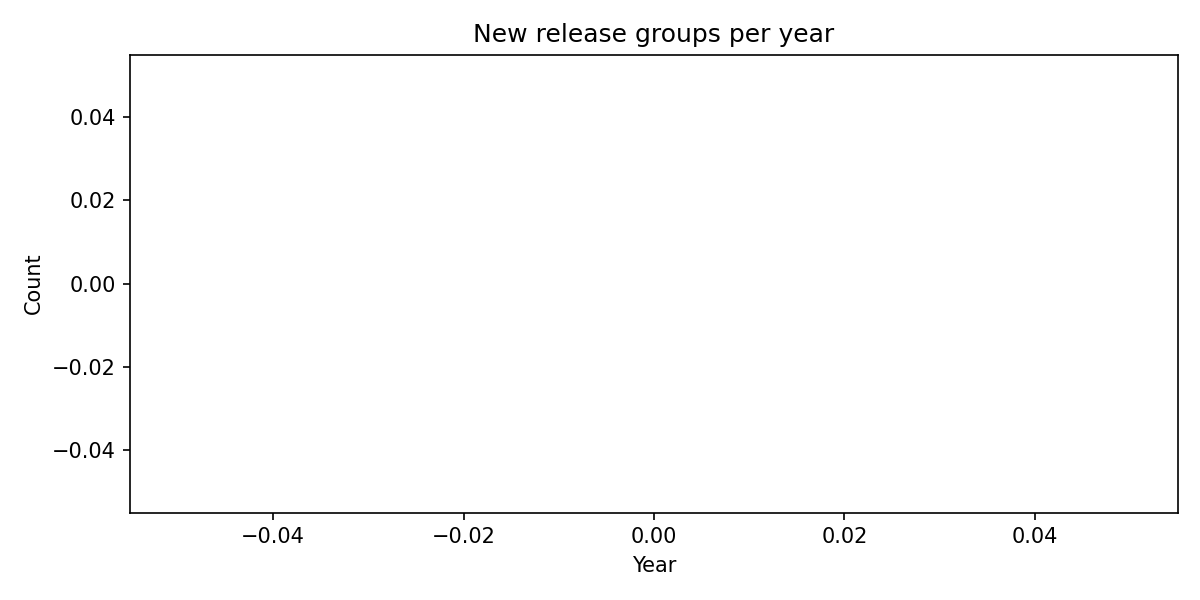
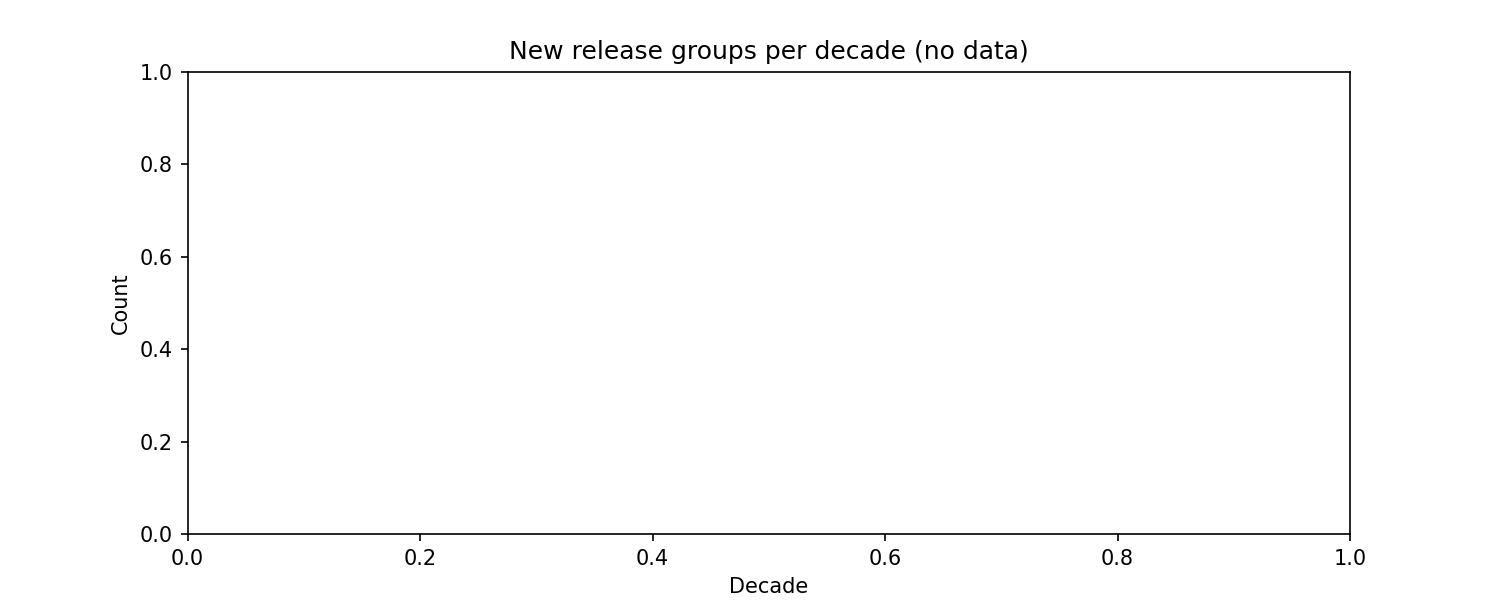
Robust hero plot with decade aggregation and fallbacks

diff --git a/app/figures/export.py b/app/figures/export.py
@@ -6,15 +6,52 @@ M = Path("data/marts")
 D = Path("docs/figures")
 D.mkdir(parents=True, exist_ok=True)
 
-# 1) Hero: release groups per year  → docs/figures/rg_per_year.png
-rg_by_year = pd.read_csv(M / "release_groups_by_year.csv").sort_values("year")
-plt.figure(figsize=(8, 4))
-plt.plot(rg_by_year["year"], rg_by_year["count"])
-plt.title("New release groups per year")
-plt.xlabel("Year")
-plt.ylabel("Count")
-plt.tight_layout()
-plt.savefig(D / "rg_per_year.png", dpi=150)
+# 1) Hero: release groups per decade with fallbacks → docs/figures/rg_per_year.png
+def _rg_by_year_fallback() -> pd.DataFrame:
+    p = M / "release_groups_by_year.csv"
+    if p.exists():
+        df = pd.read_csv(p)
+        if len(df):
+            return df.rename(columns=str.lower)[["year", "count"]]
+    # fallback from release_groups
+    p = M / "release_groups.csv"
+    if p.exists():
+        df = pd.read_csv(p).rename(columns=str.lower)
+        if "first_release_year" in df and df["first_release_year"].notna().any():
+            out = (df.dropna(subset=["first_release_year"])
+                     .assign(year=lambda d: d["first_release_year"].astype(int))
+                     .groupby("year").size().reset_index(name="count"))
+            if len(out):
+                return out
+    # last resort from artist_discography
+    p = M / "artist_discography.csv"
+    if p.exists():
+        df = pd.read_csv(p)
+        if "first_release_year" in df and df["first_release_year"].notna().any():
+            out = (df.dropna(subset=["first_release_year"])
+                     .assign(year=lambda d: d["first_release_year"].astype(int))
+                     .groupby("year").size().reset_index(name="count"))
+            return out
+    return pd.DataFrame(columns=["year", "count"])
+
+rg_year = _rg_by_year_fallback()
+# aggregate to decades: 1960s, 1970s, …
+if len(rg_year):
+    rg_dec = (rg_year.assign(decade=lambda d: (d["year"] // 10) * 10)
+                      .groupby("decade", as_index=False)["count"].sum()
+                      .sort_values("decade"))
+    labels = [f"{d}s" for d in rg_dec["decade"]]
+    plt.figure(figsize=(10, 4))
+    plt.bar(labels, rg_dec["count"])
+    plt.title("New release groups per decade")
+    plt.xlabel("Decade")
+    plt.ylabel("Count")
+    plt.tight_layout()
+else:
+    plt.figure(figsize=(10, 4))
+    plt.title("New release groups per decade (no data)")
+    plt.xlabel("Decade"); plt.ylabel("Count")
+plt.savefig(D / "rg_per_year.png", dpi=150)  # keep filename expected by tests
 plt.close()
 
 # 2) Top-5 genres by decade  → docs/figures/genre_trend_<genre>.png
